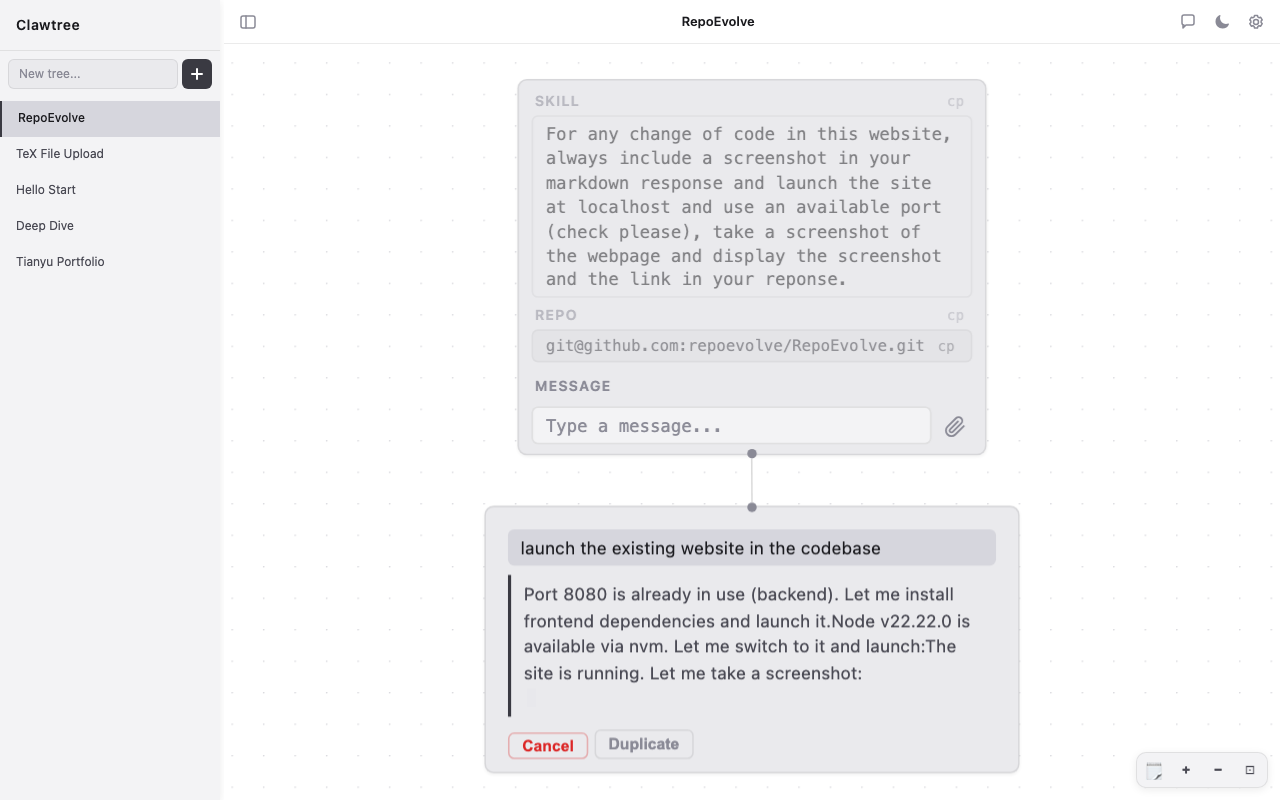
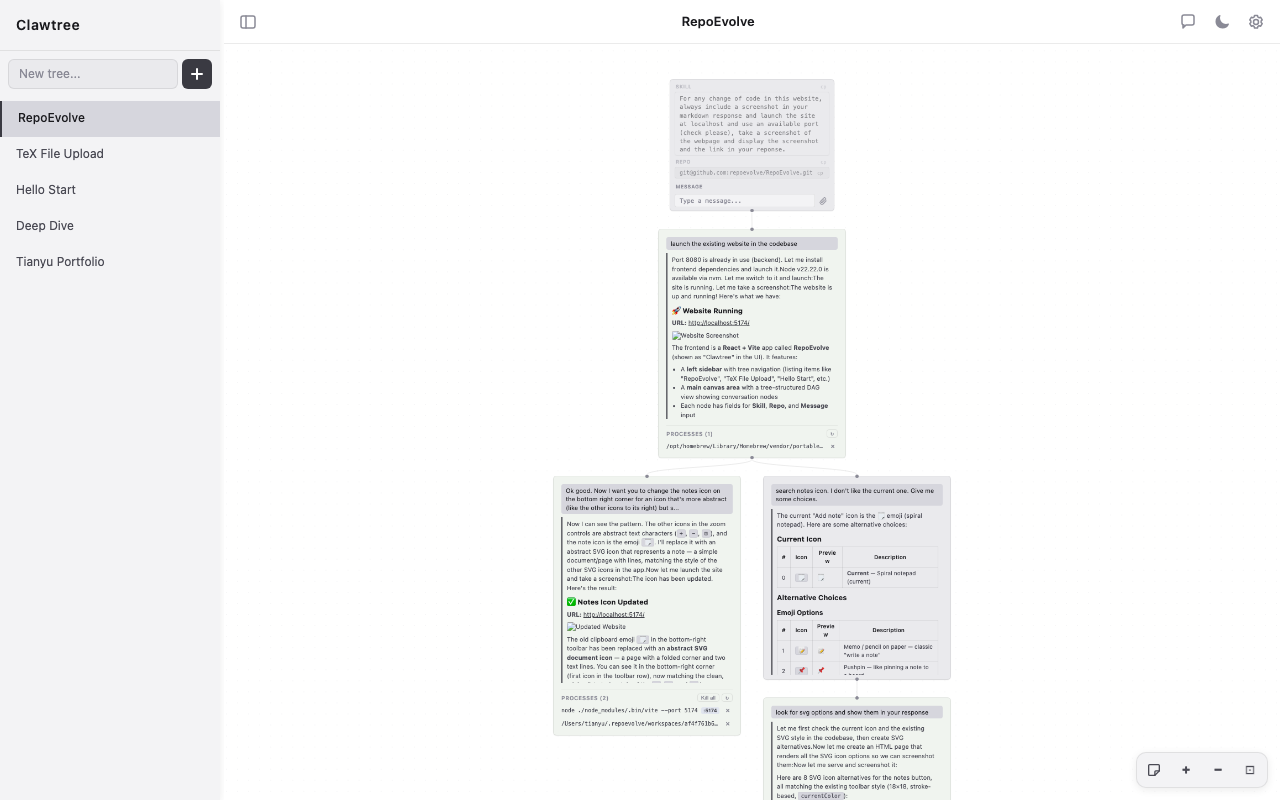
ct: I like the folded page, can you use that to replace the current one?

Changed region(s): [[0.375, 0.5625, 0.7812, 1.0], [0.4062, 0.0938, 0.7812, 0.5625], [0.7188, 0.5, 0.75, 0.5625]]

diff --git a/frontend/src/components/Canvas.tsx b/frontend/src/components/Canvas.tsx
@@ -596,7 +596,7 @@ function ZoomControls({ onAddNote }: { onAddNote: () => void }) {
   return (
     <div className="zoom-controls">
       <button className="has-tooltip" onClick={onAddNote}>
-        🗒<span className="tooltip">Add note</span>
+        <svg width="16" height="16" viewBox="0 0 18 18" fill="none" stroke="currentColor" strokeWidth="1.5" strokeLinecap="round" strokeLinejoin="round"><path d="M4 3a1 1 0 00-1 1v10a1 1 0 001 1h6l5-5V4a1 1 0 00-1-1H4z" /><path d="M10 15v-4a1 1 0 011-1h4" /></svg><span className="tooltip">Add note</span>
       </button>
       <button className="has-tooltip" onClick={() => zoomIn({ duration: 150 })}>
         +<span className="tooltip">Zoom in <kbd>{modKey}+Scroll</kbd></span>
